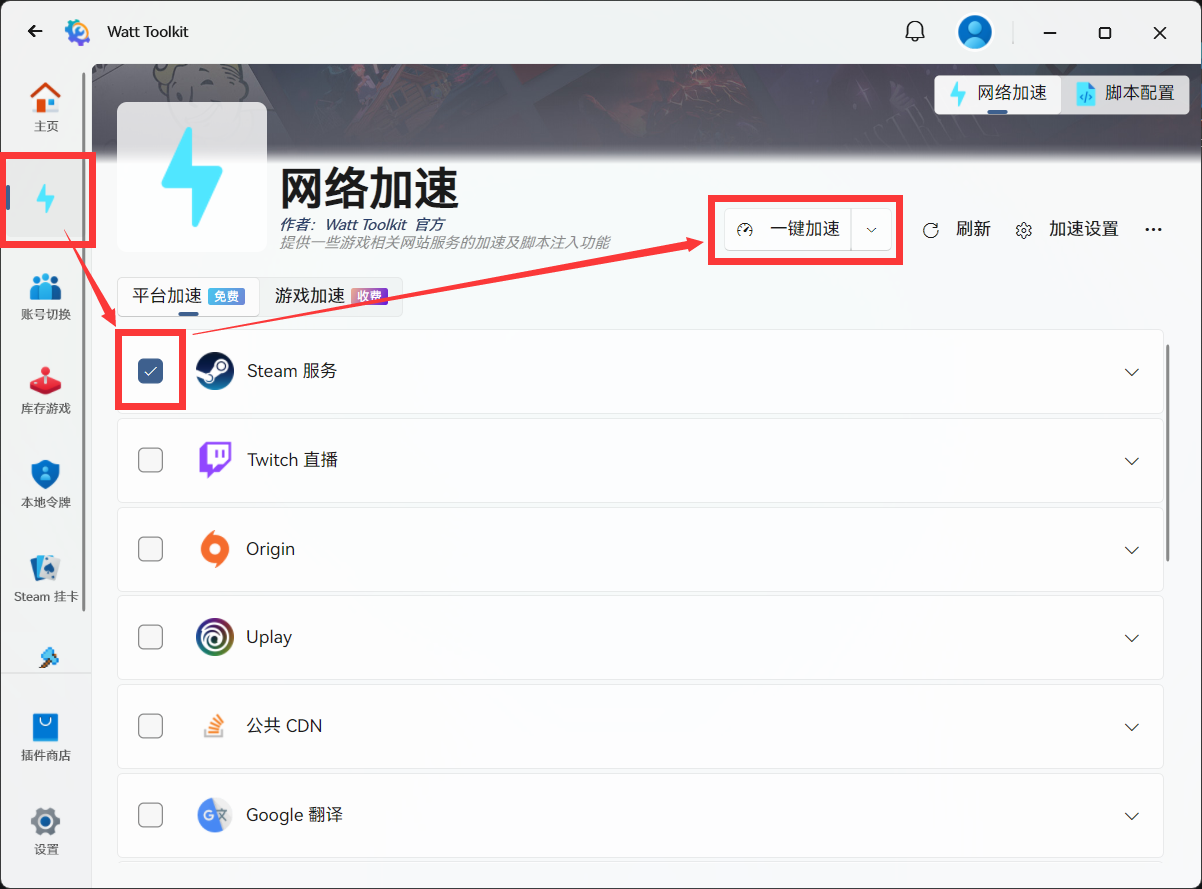
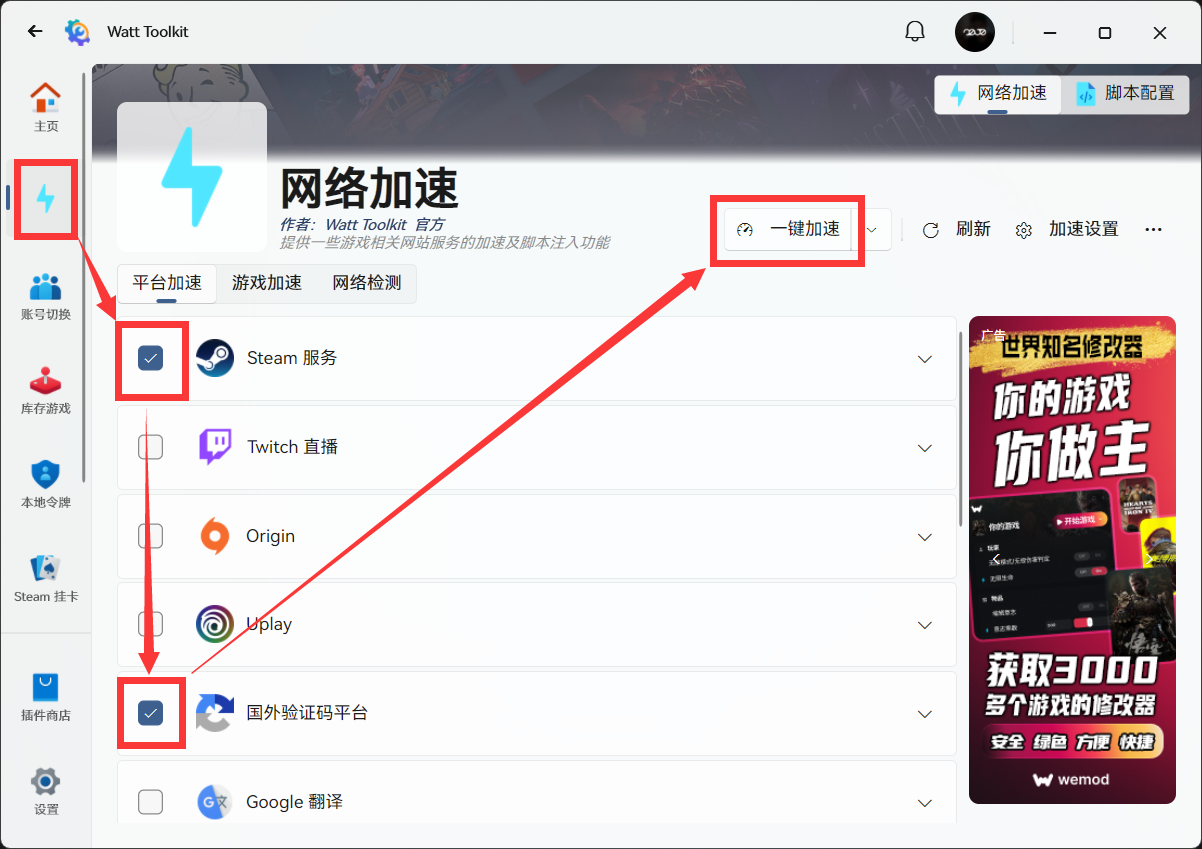
update

diff --git a/docs/tutorial/steam.md b/docs/tutorial/steam.md
@@ -63,7 +63,7 @@ https://gitee.com/rmbgame/SteamTools/releases/latest
 
 ## 二、启用加速器
 
-在 Watt Toolkit 中，点击「网络加速」- 勾选「Steam 服务」- 一键加速，就可以启用 Steam 加速功能。
+在 Watt Toolkit 中，点击「网络加速」- 勾选「Steam 服务」和「国外验证码平台」- 一键加速，就可以启用 Steam 加速功能。
 
 ![8](/pic/watt_toolkit_onekey_proxy.png)
 
@@ -140,6 +140,14 @@ https://store.steampowered.com/about/
 最后，点击「完成」即可。
 
 ![18](/pic/steam_install_complete.png)
+
+::: details 其它安装方法？
+
+1. 您也可以前往微软商店安装 Steam（此安装包为第三方上传）：https://apps.microsoft.com/store/detail/XPFCS1RGWBMTTG
+
+2. 您也可以使用 Winget 来安装 Steam：右键「开始」按钮，打开「终端」，输入：```winget install Valve.Steam```，然后按下回车键。
+
+:::
 
 ## 四、注册 Steam 帐户
 
